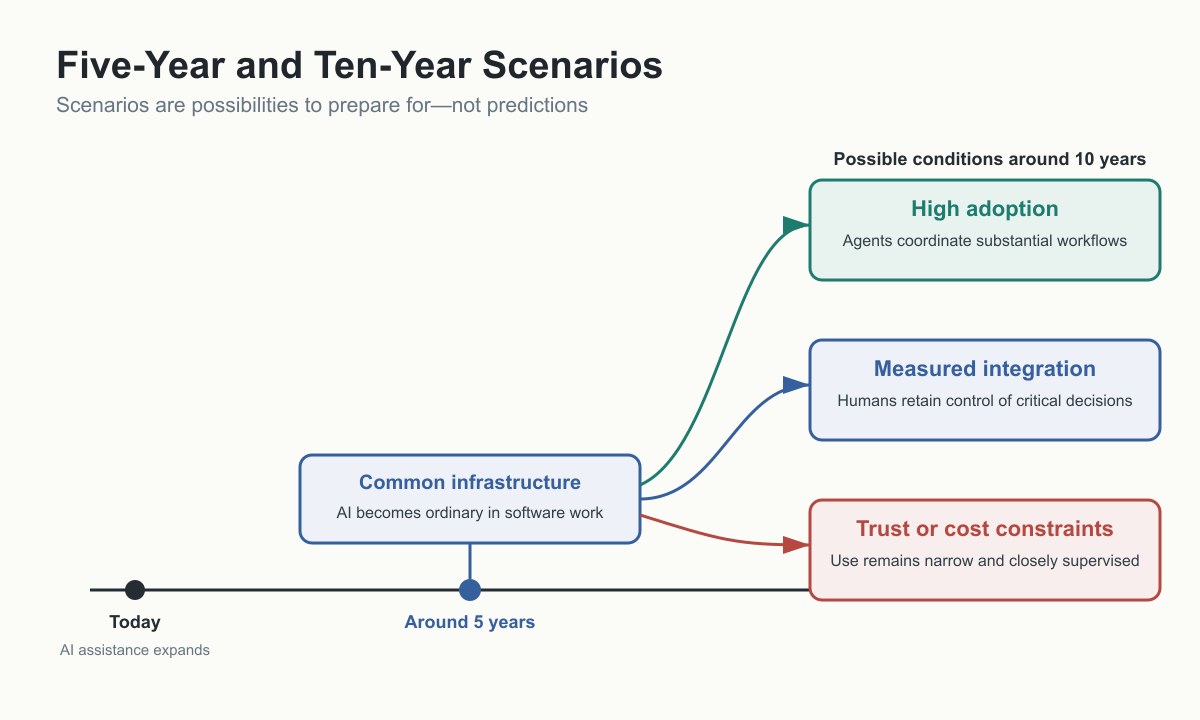
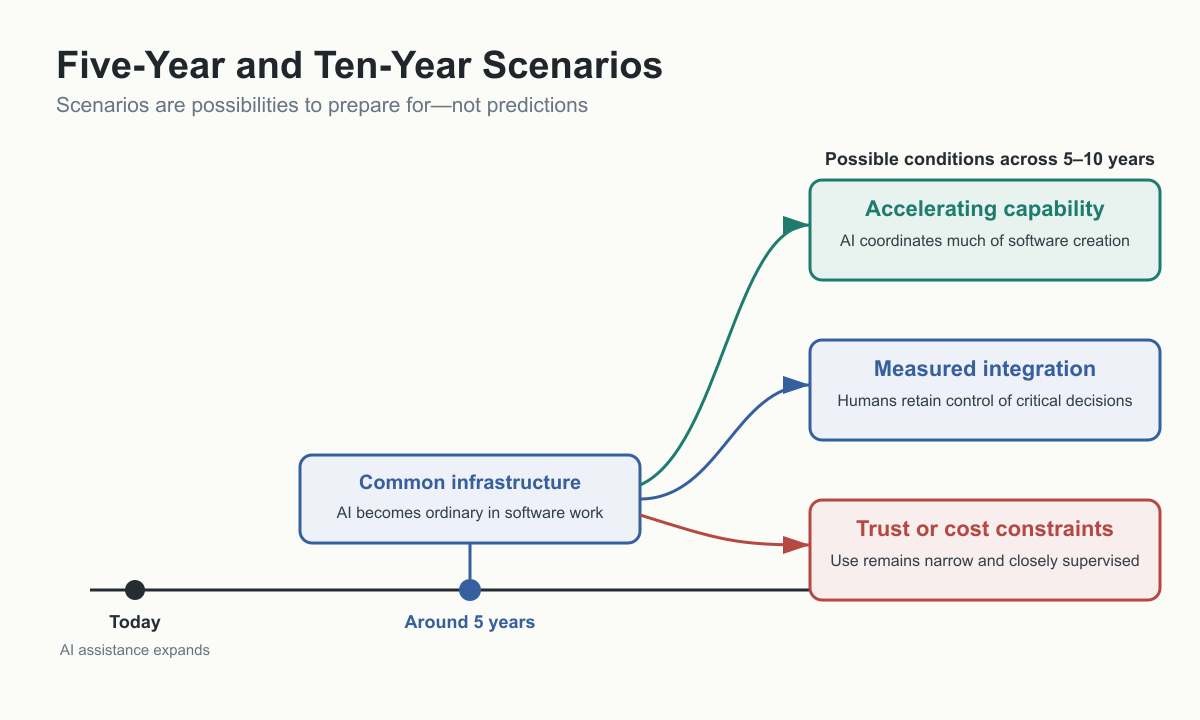
Expand five- and ten-year acceleration scenarios

Changed region(s): [[0.7092, 0.275, 0.925, 0.3667], [0.6783, 0.2139, 0.9558, 0.2444]]

diff --git a/content/20-five-year-and-ten-year-scenarios.md b/content/20-five-year-and-ten-year-scenarios.md
@@ -55,6 +55,56 @@ The main constraints are verification, context, integration, cost, trust, and or
 
 The labour-market signal is still mixed. [[Labour-Market Effects on Programmers]] suggests that the near-term impact may appear first in skills, role expectations, and hiring patterns rather than in a simple collapse of programmer employment. Official projections can still show growth while the content of the job changes substantially.
 
+## The Forecast May Be Too Small
+
+The greatest weakness in any five- or ten-year scenario may be that it imagines today's AI becoming gradually better. My experience with Radix suggests a less comfortable possibility: the boundary of what is feasible can move dramatically within a single year.
+
+The failed attempt to scaffold the Streamlit-to-Xcode migration and the later success were not separated by a generation of computing. They were separated by roughly a year of progress in models, agent environments, tools, feedback, project context, and my own ability to supervise the work. If a difficult task can cross from impractical to achievable on that timescale, a five-year forecast cannot safely assume five similar annual increments.
+
+Several forms of improvement can reinforce one another:
+
+~~~text
+models reason and code better
+↓
+agents use more tools and gather better evidence
+↓
+verification becomes more automatic
+↓
+successful work produces better context and reusable components
+↓
+more people attempt larger projects
+↓
+tools improve around the new patterns of use
+~~~
+
+This does not prove that progress will continue at the same rate. Bottlenecks, cost, regulation, energy, data, reliability, security, and diminishing returns could slow it. Adoption by organisations may also move much more slowly than technical capability.
+
+But the opposite error matters too. Forecasts can underestimate compounding change because they evaluate the model as a single product. The real system is improving across several layers at once: model, agent, tools, hardware, context, frameworks, verification, and human practice.
+
+The ordinary-infrastructure and intent-driven scenarios later in this chapter should therefore be read as a middle branch, not an upper bound.
+
+## Five-Year Acceleration Branch
+
+In a more dramatic five-year scenario, AI is not merely ordinary development infrastructure. For many bounded projects, it becomes the primary implementer.
+
+A domain expert may describe an application through conversation, screenshots, examples, business rules, and corrections. An agent system scaffolds the project, chooses tested components, constructs the data model, writes the first implementation, runs builds and tests, renders the interface at several sizes, corrects visual defects, prepares deployment, and maintains an audit trail. Professional developers supervise architecture, security, difficult integrations, and the projects whose consequences justify deeper control.
+
+Small teams may operate software portfolios that previously required much larger engineering organisations. Temporary and highly specialised software becomes economical because the cost of creating and later discarding it falls sharply. Applications may be generated for one classroom, one research investigation, one legal matter, one patient workflow, or one short-lived business process.
+
+This branch does not require a machine with every human intellectual capability. It requires agent systems that are sufficiently reliable inside bounded environments, surrounded by frameworks, tests, permissions, and rollback.
+
+## Ten-Year Acceleration Branch
+
+A dramatic ten-year branch is harder to picture precisely because its products may not resemble today's development tools.
+
+Natural language, examples, observed work, and organisational records could become the normal source material for software. Code would still exist, but much of it might be produced, tested, revised, and retired without a person reading every line. The important human artefacts would increasingly be goals, policies, acceptance criteria, prohibited actions, and evidence that the resulting system behaves appropriately.
+
+Agent systems might coordinate large portions of the software lifecycle: research, requirements, design, implementation, testing, deployment, monitoring, support, migration, documentation, and continuous improvement. A small number of people could direct something that resembles a software organisation assembled from specialised agents and deterministic services.
+
+If that occurs, the most dramatic change would not be faster programming. It would be a large expansion in the quantity and specificity of software humanity can afford to create. Many activities that now adapt themselves to general-purpose products could instead receive software shaped around the activity.
+
+This remains speculation. Ten years could also bring disappointment, fragmentation, regulation, or a reliability ceiling. The purpose of the acceleration branch is not to claim that the most dramatic outcome will occur. It is to acknowledge that the changes already observed over one year make today's apparently ambitious forecast an unreliable upper limit.
+
 ## Five-Year Scenario: AI as Ordinary Development Infrastructure
 
 In a plausible five-year scenario, AI becomes ordinary infrastructure for software development.